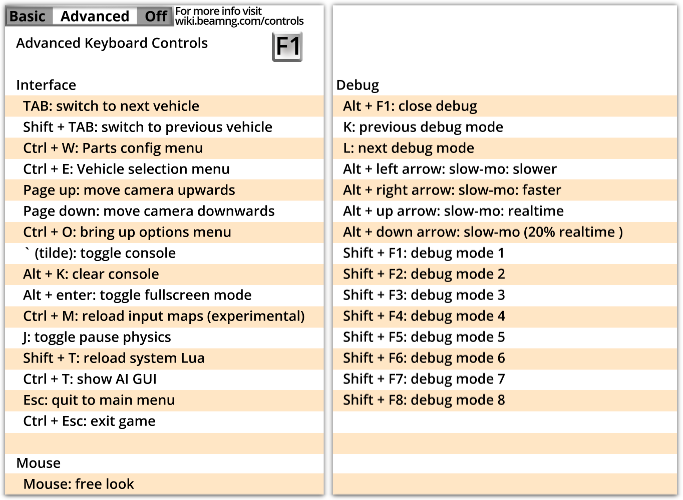
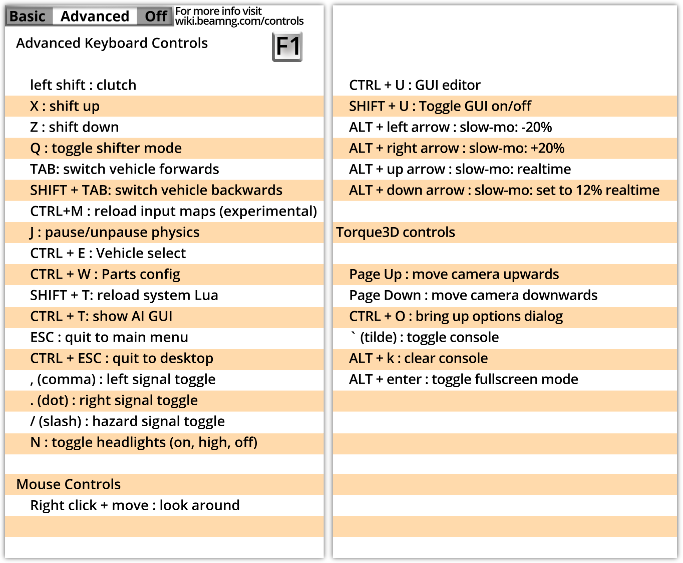
[improved] credits [fixed] z-index problem [improved] help [added] shortcuts: k, shift+k, l, shift+l

diff --git a/js/app.js b/js/app.js
@@ -947,14 +947,65 @@ var KeyManager = {
             }            
         });
     },
-    ku73: function(modifiers){ // I
-
-    },
     ku75: function(modifiers){ // K
-        
+        // Skeleton
+        var options = $('#skeleton_debug_options')
+            .controlgroup( "container" )
+            .find('input');
+        var size = options.length;
+
+        options.each(function(index){
+            if($(this).is(':checked')){
+
+                if(modifiers.shift){
+                    index = index - 1;
+                    if(index == -1) index = size - 1;
+                }else{
+                    index = (index + 1) % size;
+                }
+
+                options.get(index).click();
+                var id = options.get(index).id;
+                var name = $('label[for="'+id+'"]').text();
+                HookManager.trigger('Message',{msg:'Skeleton: '+name, category:'debug',ttl: 2});
+                return false;
+            }
+        });
     },
     ku76: function(modifiers){ // L
-        
+        var options = $('#nodeinfo_debug_options')
+            .find('option[data-placeholder!="true"]');
+        var size = options.length;
+        var found = false;
+        var newIndex = 0;
+        options.each(function(index){
+            if($(this).is(':selected')){
+
+                if(modifiers.shift){
+                    newIndex = index - 1;
+                    if(newIndex == -1) newIndex = size - 1;
+                }else{
+                    newIndex = (index + 1) % size;
+                }
+
+                found = true;
+                return false;
+            }
+        });
+        if(!found){
+            if(modifiers.shift){
+                    newIndex = size - 1;
+                }else{
+                    newIndex = 0;
+                }
+        }
+
+        var name = options.get(newIndex).text;
+        var value = options.get(newIndex).value;
+        console.log(name);
+        $('#nodeinfo_debug_options').val(value).change().selectmenu('refresh');
+
+        HookManager.trigger('Message',{msg:'Node Information: '+name, category:'debug',ttl: 2});
     },
     ku79: function(modifiers){ // O
         $('#debug_globalonoff').click();

diff --git a/credits.html b/credits.html
@@ -37,7 +37,7 @@
 <tr><td class="t">Programmer</td><td class="n">Lefteris "<span>estama</span>" Stamatogiannakis</td></tr>
 <tr><td class="t">Vehicle Artist</td><td class="n">Gabe "<span>gabester</span>" Fink</td></tr>
 <tr><td class="t">Environment Artist</td><td class="n">Sam "<span>LJFHutch</span>" Hutchinson</td></tr>
-<tr><td class="t">Programmer</td><td class="n">Luis Anton Rebollo</td></tr>
+<tr><td class="t">Programmer</td><td class="n">Luis "<span>Souga</span>" Anton Rebollo</td></tr>
 <tr><td class="t">Helping Hands</td><td class="n">
 Mirco "<span>theshark</span>" Weigel<br/>
 Saskia Opitz<br/>
@@ -47,26 +47,30 @@ Xiaoyi Wang<br/>
 Rajinder<br/>
 Theodoros Manouilidis<br/>
 </td></tr>
-<tr><td class="t">Community</td><td class="n">
+<tr><td class="t">Our awesome community</td><td class="n">
 Sam "<span>DrowsySam</span>" Millington<br/>
 Richard "<span>Metalmuncher</span>" Sixsmith<br/>
 Jukka "<span>Miura</span>" Muikkula<br/>
-Dustin "<span>dkutch</span>" Kutchara<br/>
 Tom "<span>Mythbuster</span>" Verhoeve<br/>
+Sergy "<span>0xsergy</span>" Karpowicz<br/>
+Dustin "<span>dkutch</span>" Kutchara<br/>
 Jali "<span>Jalkku</span>" Hautala<br/>
 Matti "<span>Masa</span>" Yrjänheikki<br/>
 Daniel "<span>daniel_j</span>" Jones<br/>
-Vasilis "<span>Vasilis</span>" Douvaras<br/>
+<span>Vasilis</span> Douvaras<br/>
 Dennis "<span>Dennis-W</span>" Wrekenhorst<br/>
+Sven "<span>sputnik_1</span>" Nabeck<br/>
+Yannis "<span>JohnV</span>" Vaiopoulos<br/>
+<span>Kristian</span> Fagerland<br/>
 </td></tr>
 <tr><td class="t">Special thanks to</td><td class="n">
 Pierre-Michel "<span>pricorde</span>" Ricordel<br/>
 </td></tr>
 <tr><td class="t">Made possible with</td><td class="n">
+Torque3D<br/>
 LuaJIT<br/>
 LuaBridge<br/>
 Chromium Embedded Framework<br/>
-Torque3D<br/>
 jQuery, jQuery.ui, jQuery.mobile<br/>
 libtorrent<br/>
 LuaSocket<br/>

diff --git a/play.html b/play.html
@@ -37,15 +37,15 @@
         <div id='speed'></div>
         <a id="btn3" class="cefdev" href="javascript:location.reload();" data-inline="false" data-role="button" data-mini="true" data-corners="false" style="width:60px;position:absolute;left:0px;bottom:0px;margin:0;padding:0;">ReloadUI</a>
         <div class="top-right">
-        <div data-role="controlgroup">
-            <a href="#rightMenu" data-role="button" data-icon="bars" data-iconpos="notext"></a>
+            <div data-role="controlgroup">
+                <a href="#rightMenu" data-role="button" data-icon="bars" data-iconpos="notext"></a>
             </div>
         </div>
         <div class="bottom-right">
-        <div data-role="controlgroup">
-            <a onclick="AppStore.open();return false;" href="#" data-role="button" data-icon="plus" data-iconpos="notext"></a>
-            <a onclick="AppEngine.toggleEditMode();return false;" href="#" data-role="button" data-icon="gear" data-iconpos="notext"></a>
-        </div>
+            <div data-role="controlgroup">
+                <a onclick="AppStore.open();return false;" href="#" data-role="button" data-icon="plus" data-iconpos="notext"></a>
+                <a onclick="AppEngine.toggleEditMode();return false;" href="#" data-role="button" data-icon="gear" data-iconpos="notext"></a>
+            </div>
         </div>
     </div><!-- /content -->
 

diff --git a/css/beamng.css b/css/beamng.css
@@ -111,11 +111,11 @@ html,body{
     margin:0;
     padding:0;
     border:0;
-    z-index:5000;
+    z-index:990;
 }
 
 #rightMenu{
-    z-index:5250;
+    z-index:1000;
 }
 
 .ui-panel {
